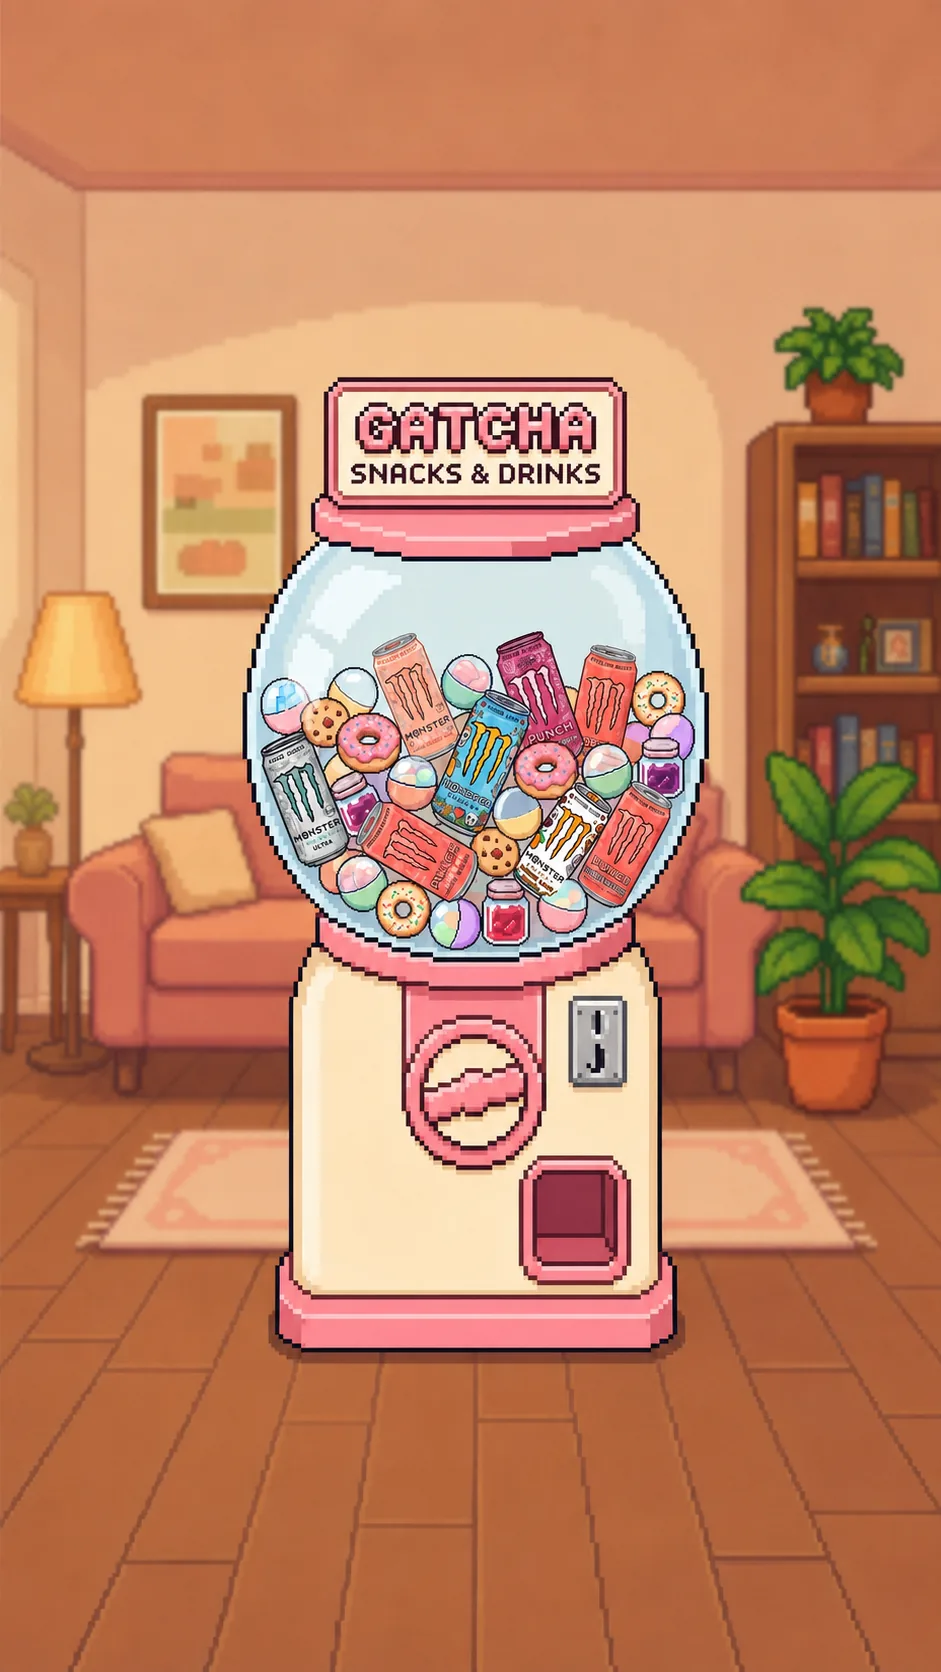
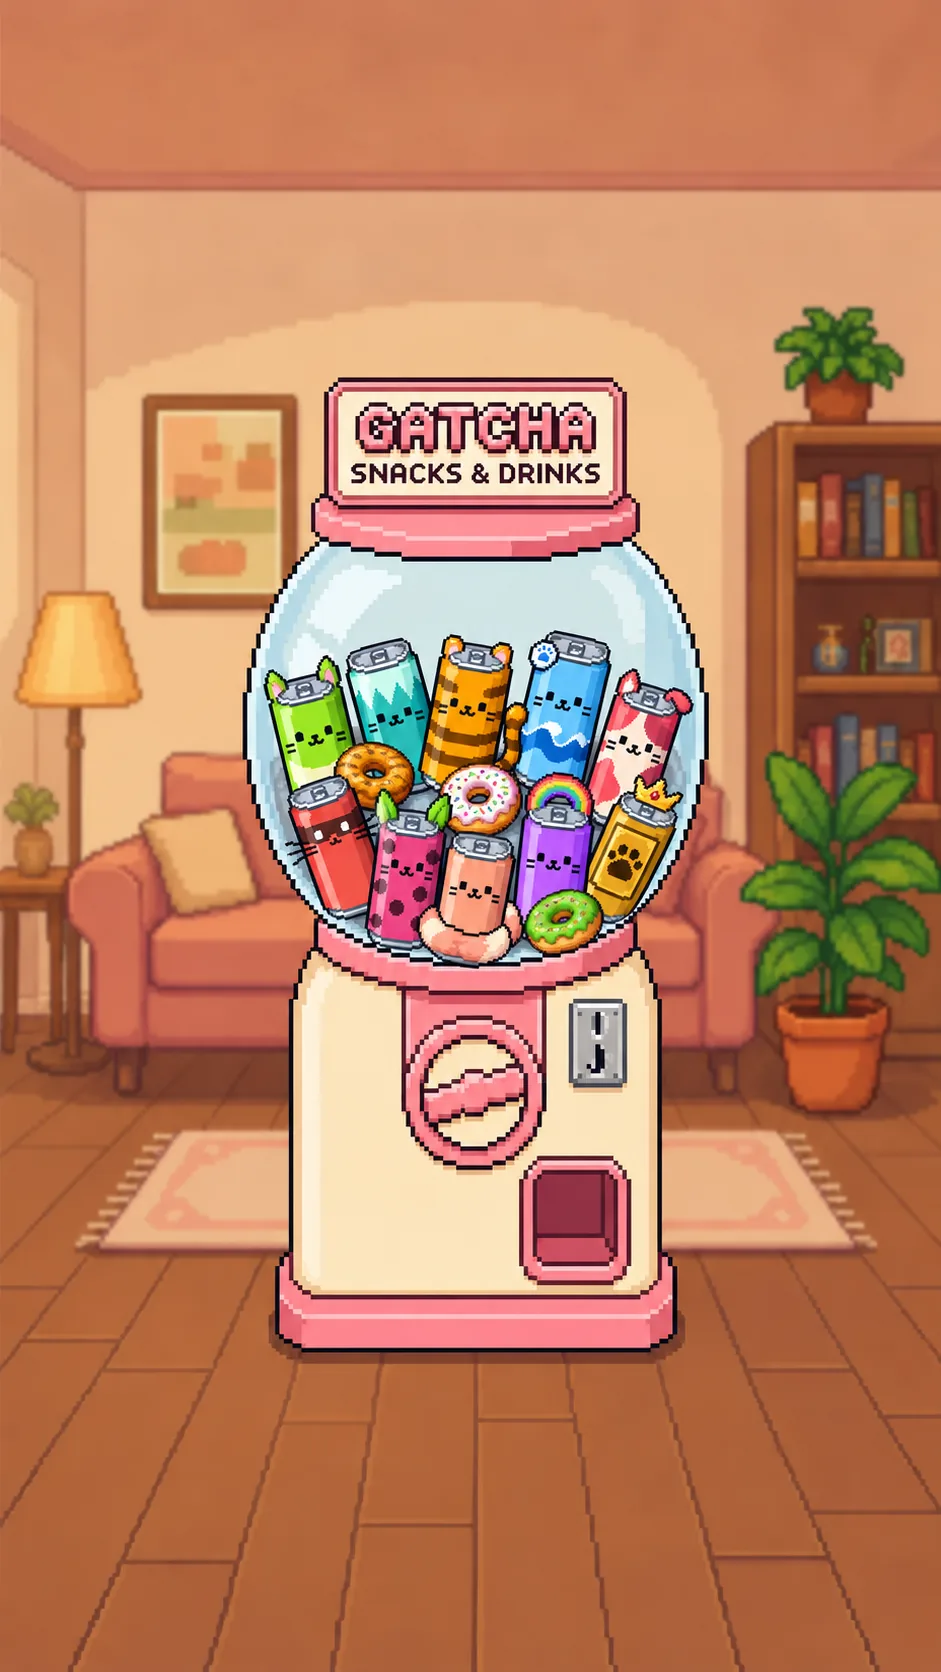
Refresh Snacks & Drinks gacha with approved Purrbolt artwork

Changed region(s): [[0.2774, 0.3732, 0.7396, 0.7153], [0.3698, 0.2177, 0.6164, 0.311]]

diff --git a/src/app/(app)/gacha/page.tsx b/src/app/(app)/gacha/page.tsx
@@ -34,7 +34,7 @@ import CurtainGlitter from '@/components/CurtainGlitter'
 // ?v bumps the cache key when the art changes: the SW serves images
 // stale-while-revalidate, so a same-path replace shows the old one first.
 const PAGES = [
-  { id: 'food', bg: '/gacha_food.webp?v=1' },
+  { id: 'food', bg: '/gacha_food.webp?v=2' },
   { id: 'animal', bg: '/gacha_animal.webp?v=1' },
   // FoodSuits — placeholder reward pool for now (see GACHA_BANNERS).
   { id: 'foodsuits', bg: '/gacha_foodsuits.webp?v=1' },
